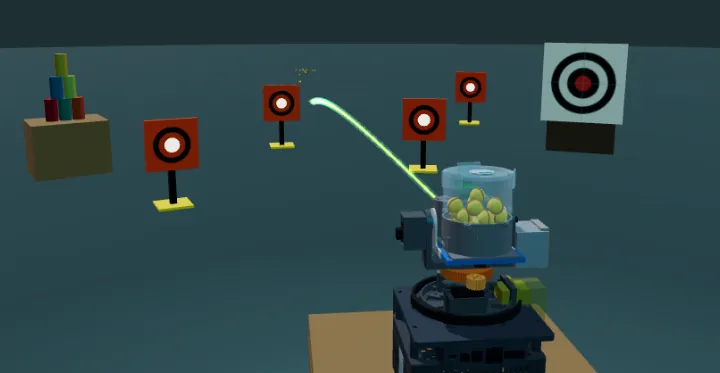
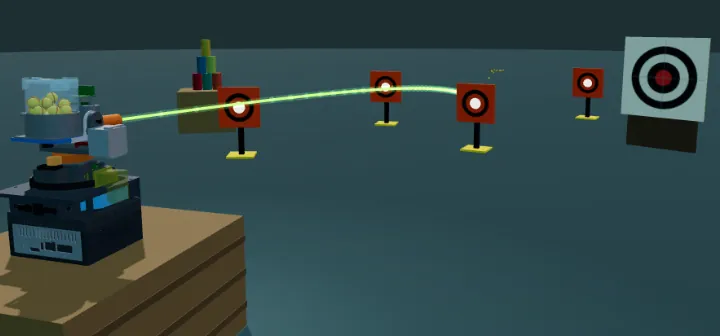
Home page polish: turret first, recaptured; no pills; legible table crops (#748)
- Turret recording recaptured from Gyropup 41c5c26 with a fixed side camera
  (orbit and two wheel steps, recorded in SOURCE.json): barrel, hopper and
  the target row fill the frame. The turret card and the three toolkit cards
  now come first in "See it run", the two viewers below.
- Stack cells no longer render maturity pills (all read "tooling"); their
  areas are still validated against docs/areas.yaml at build time.
- BOM and deterministic-checks thumbnails use a validated `crop` (scale, x,
  y) in docs/home.yaml so a few rows read at thumbnail size; no new files.
- Browser test fix for CI's Chromium r1194: the reduced-motion image probe
  and its moving-image control called decode() right after scrolling a lazy
  image whose load had not started (the reel now sits below the viewers,
  outside the lazy-load distance at first paint). r1194 rejects that with
  EncodingError; the probe now waits for the image's load, then decodes.
  The control still requires the planted moving still to be observed.

Claude-Session: https://claude.ai/code/session_01X6BLR8ZbMMUynv9Rte1ovY

diff --git a/tools/site/assets/home.css b/tools/site/assets/home.css
@@ -42,17 +42,16 @@
 .stack-cell h3{display:flex;flex-wrap:wrap;align-items:center;gap:6px 10px;font-size:17px;letter-spacing:-.3px;margin:4px 0 6px}
 .stack-cell h3 a{text-decoration:none;color:var(--ink)}.stack-cell h3 a::after{content:"";position:absolute;inset:0;border-radius:inherit}
 .stack-cell:hover{border-color:var(--accent)}.stack-cell:has(h3 a:focus-visible){outline:3px solid var(--focus);outline-offset:3px}.stack-cell h3 a:focus-visible{outline:none}
-.stack-cell h3 .pill{margin:0}
 .stack-cell p{margin:0;font-size:13.5px;line-height:1.6;color:var(--muted)}
 .stack-media{display:block;aspect-ratio:16/9;border-radius:calc(10px*var(--round));overflow:hidden;background:var(--image);margin-bottom:8px}
 .stack-media img{display:block;width:100%;height:100%;object-fit:cover;object-position:center top}
+.stack-crop{position:relative}.stack-crop img{position:absolute;left:0;top:0;width:calc(100% * var(--crop-scale));max-width:none;height:auto;object-fit:initial;transform:translate(calc(-1 * var(--crop-x)),calc(-1 * var(--crop-y)))}
 .stack-arrow{display:flex;align-items:center;gap:12px;margin:14px 2px 0;font:600 12px/1.4 var(--mono);color:var(--text-2)}
 .stack-arrow-line{flex:1;min-width:24px;height:2px;background:linear-gradient(90deg,var(--line-3),var(--orange));position:relative}
 .stack-arrow-line::after{content:"";position:absolute;right:-1px;top:-5px;border:6px solid transparent;border-left:9px solid var(--orange);border-right:0}
-.pill-maturity{background:var(--green);border-color:var(--green-line)}.pill-maturity[data-maturity=idea],.pill-maturity[data-maturity=surveyed]{background:var(--grey)}
 /* See it run: the two viewers, then the turret recording beside compact links into /toolkit. */
 .built-with{padding-top:40px}
-.run-more{display:grid;grid-template-columns:minmax(0,1.35fr) minmax(0,1fr);gap:24px;margin-top:24px}
+.run-more{display:grid;grid-template-columns:minmax(0,1.35fr) minmax(0,1fr);gap:24px;margin-bottom:24px}
 .run-card,.run-mini{position:relative;border:1px solid var(--line-2);border-radius:calc(20px*var(--round));background:var(--card);min-width:0}
 .run-card{padding:16px 18px 18px}
 .run-media{display:block;border-radius:calc(12px*var(--round));overflow:hidden;background:var(--image)}
